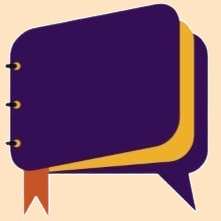
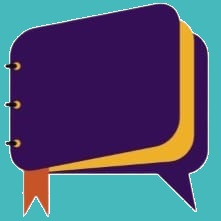
lcc

diff --git a/index.html b/index.html
@@ -55,7 +55,7 @@ https://templatemo.com/tm-563-seo-dream
           <nav class="main-nav">
             <!-- ***** Logo Start ***** -->
             <a href="index.html" class="logo">
-              <h4><img src="log.jpg" alt="">Educate</h4>
+              <h4><img src="log.jpg" class="logoimg" alt="">Educate</h4>
             </a>
             <!-- ***** Logo End ***** -->
             <!-- ***** Menu Start ***** -->

diff --git a/assets/css/template.css b/assets/css/template.css
@@ -285,7 +285,7 @@ header
 }
 
 .header-area {
-  background-color: #073b4c;
+  background-color: #45b9bb;
   position: absolute;
   top: 0px;
   left: 0px;
@@ -325,8 +325,8 @@ header
 }
 
 .header-area .main-nav .logo h4 img {
-  max-width: 30px;
-  margin-top: -20px;
+  max-width: 44px;
+  margin-top: -6px;
   margin-left: 5px;
 }
 
